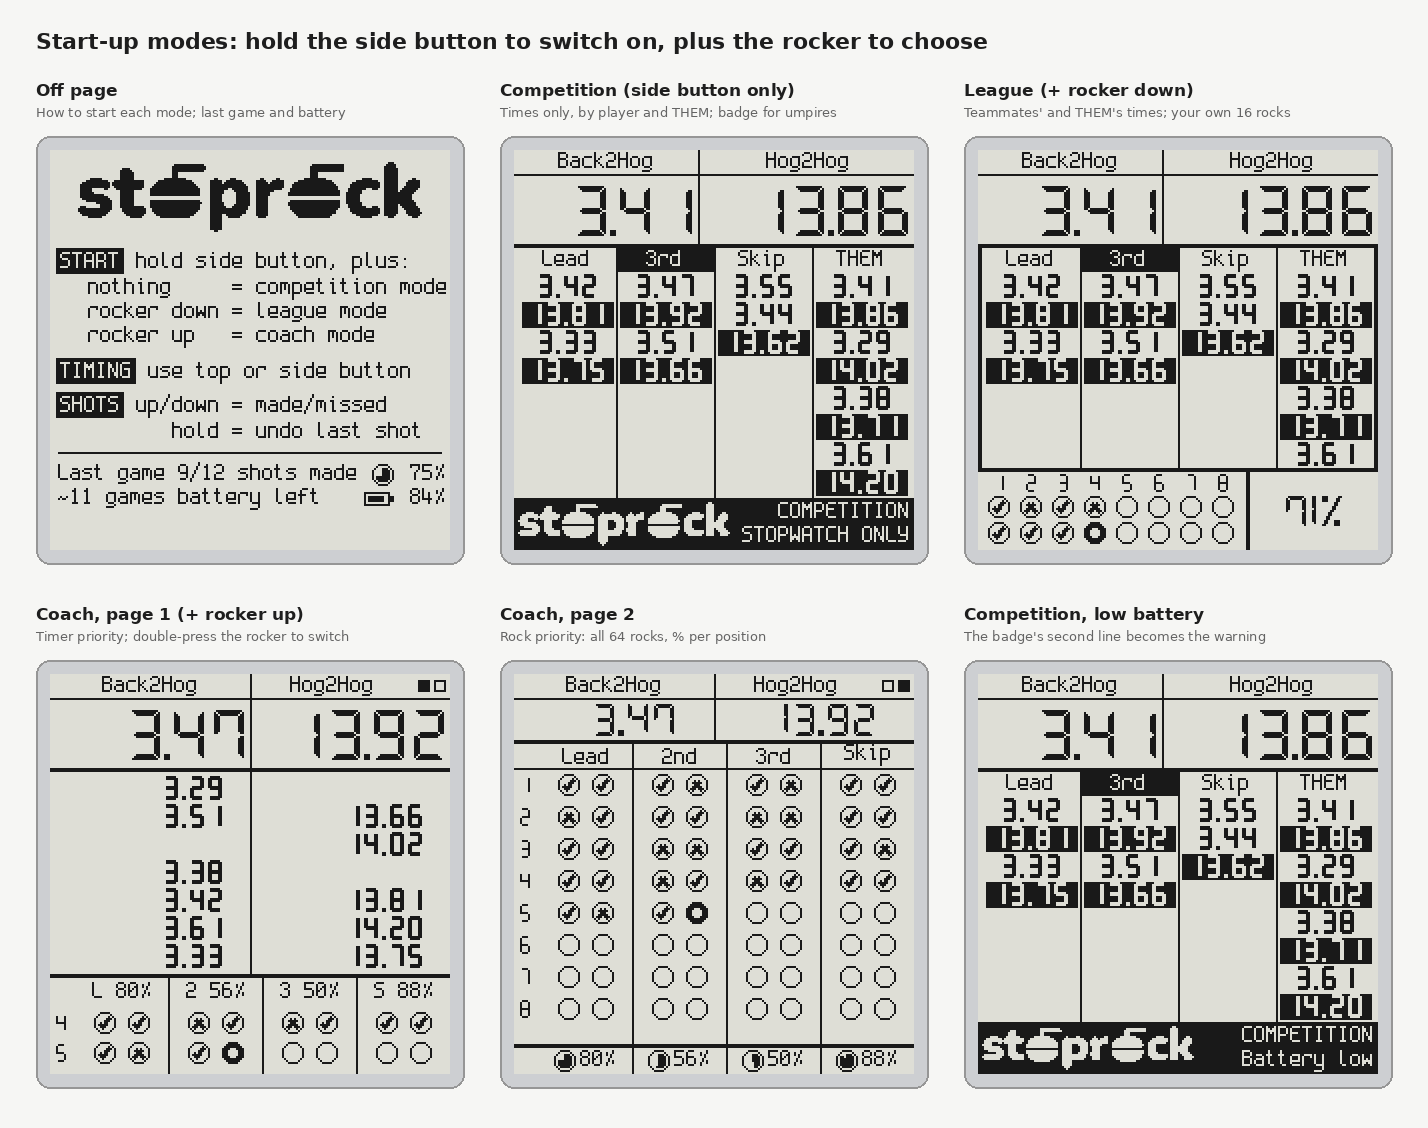
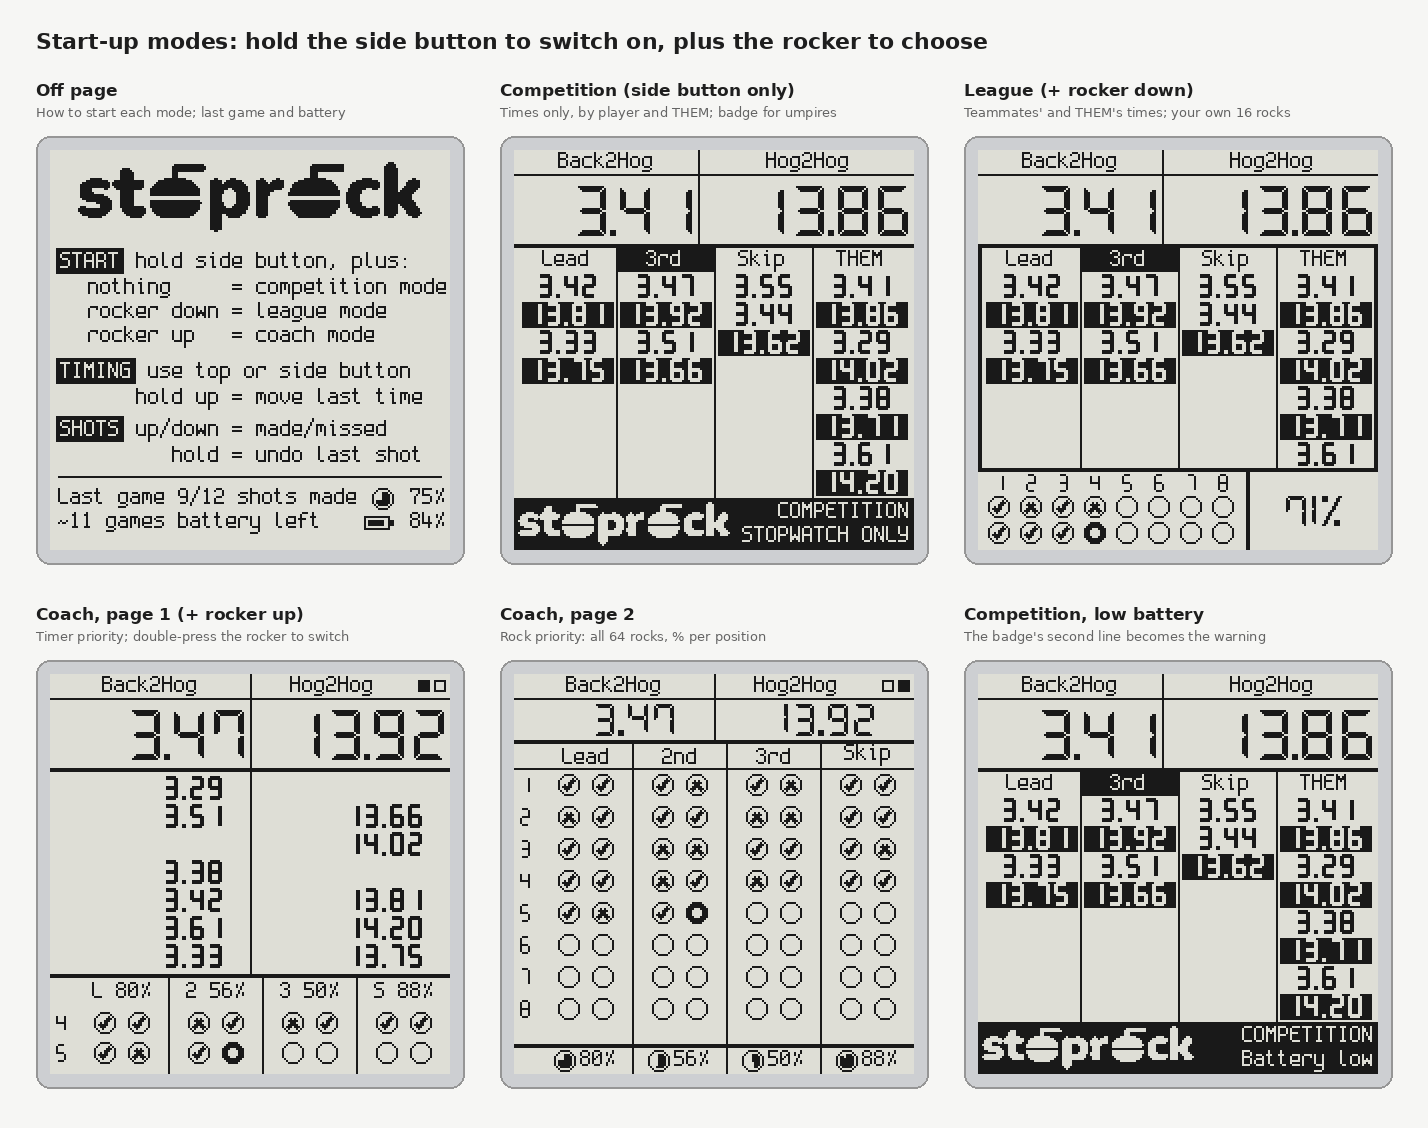
Help page: "hold up = move last time" under TIMING
Claude-Session: https://claude.ai/code/session_01YA9zoncxe9XeMCwR12hQbC

Changed region(s): [[0.0308, 0.3413, 0.3081, 0.4654]]

diff --git a/firmware/lib/stoprock_ui/src/screens.cpp b/firmware/lib/stoprock_ui/src/screens.cpp
@@ -188,6 +188,7 @@ void drawHelp(Canvas& c, const char* lastGame, int shotPct, int battery, const c
     eqLine("rocker up   = coach mode");
     y += 5;
     tag("TIMING", "use top or side button");
+    eqLine("hold up = move last time");
     y += 3;
     tag("SHOTS", "up/down = made/missed");
     eqLine("hold = undo last shot");

diff --git a/tools/mockups/screen.py b/tools/mockups/screen.py
@@ -237,6 +237,7 @@ def help_page(device_logo, last_game, shot_pct=None, battery=None, battery_note=
     eq_line("rocker up   = coach mode")
     y += 5
     tag("TIMING", "use top or side button")
+    eq_line("hold up = move last time")
     y += 3
     tag("SHOTS", "up/down = made/missed")
     eq_line("hold = undo last shot")

diff --git a/docs/SPEC.md b/docs/SPEC.md
@@ -161,6 +161,7 @@ stoprock logo (176 px), then Spleen 6×12:
      rocker up   = coach mode
 
  [TIMING] use top or side button
+         hold up = move last time
 
  [SHOTS] up/down = made/missed
             hold = undo last shot
